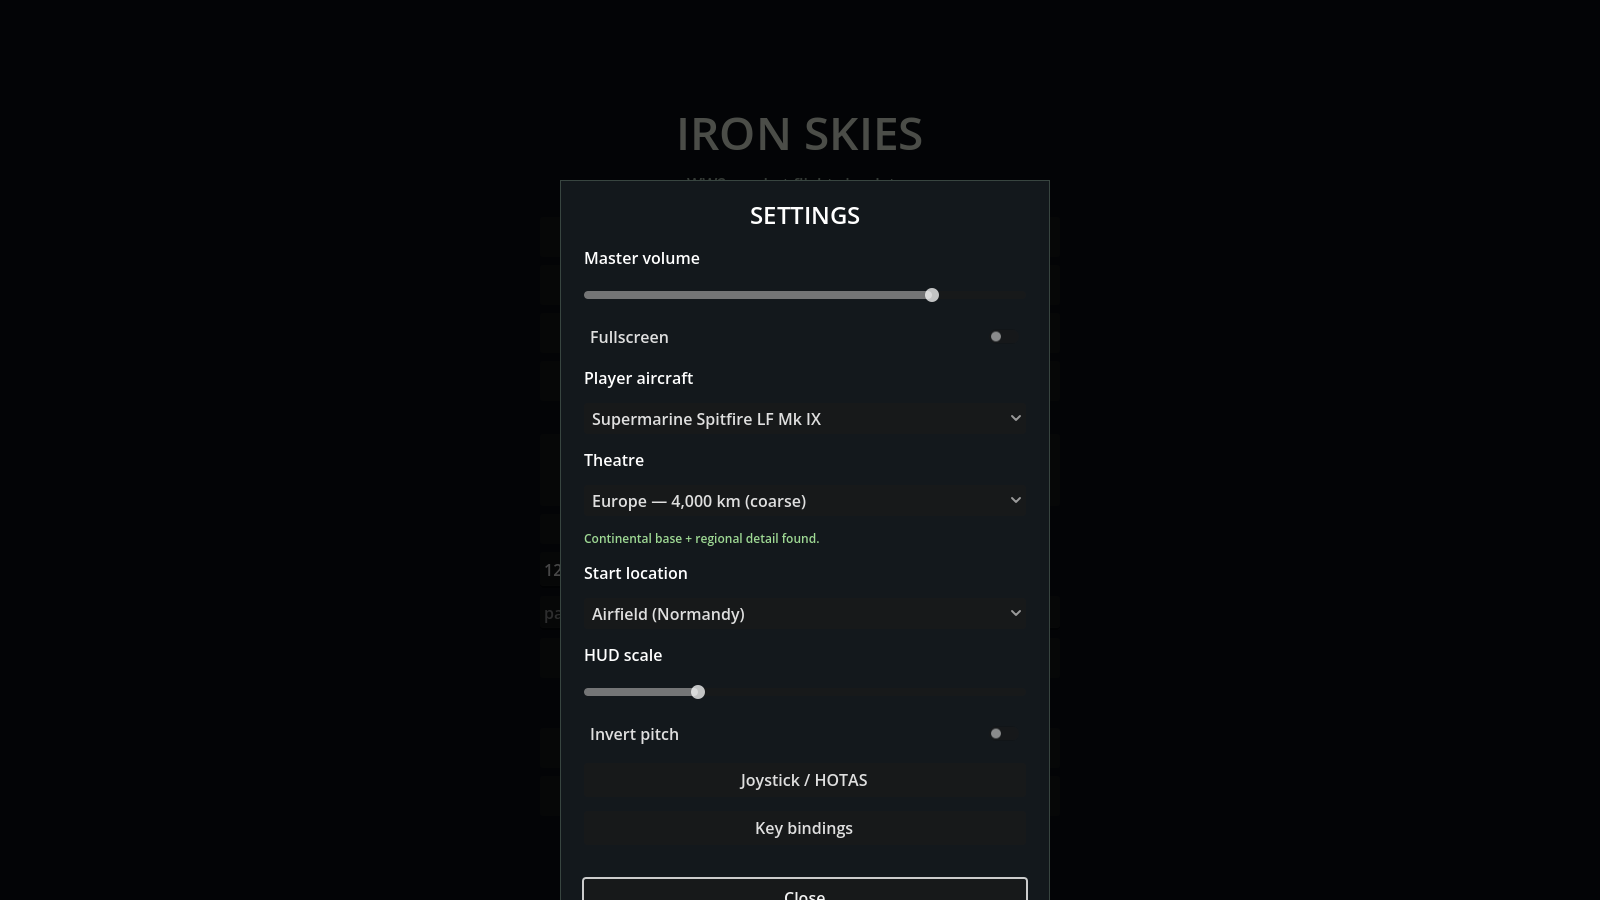
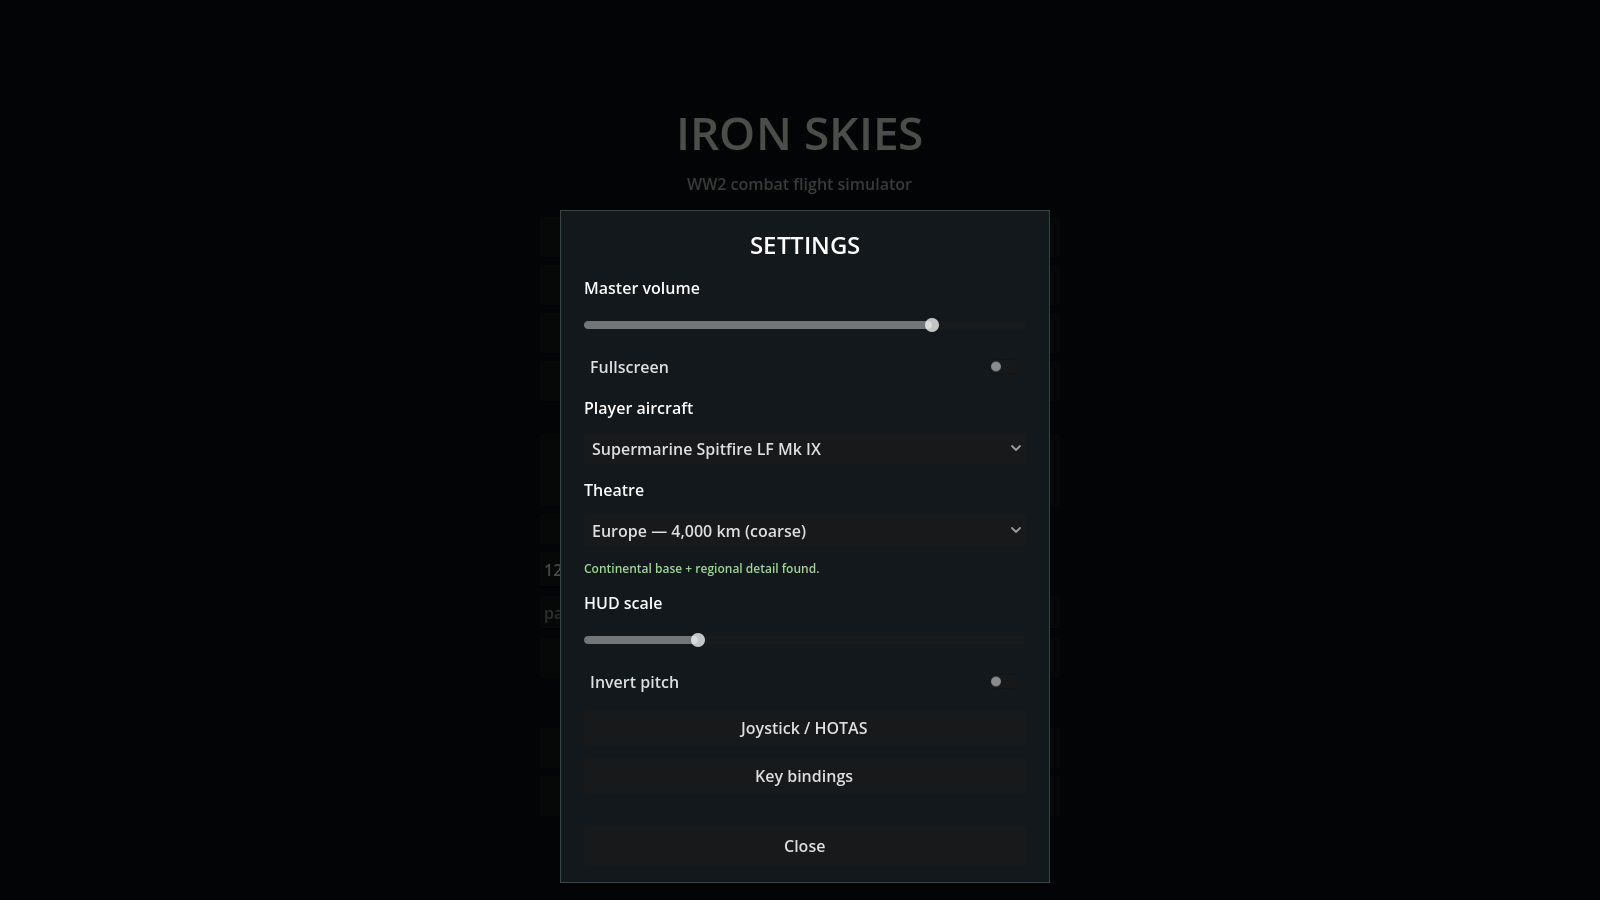
ui: choose the single-player start location in a launch dialog
- Single Player now opens a dialog: Airfield or airborne Alps start
- the Alps choice switches the theatre to Europe and starts at the Alpine layer
- removed the start-location row from Settings; the theatre selector stays there
- LaunchConfig carries the chosen start location into the Main scene
- new --open-singleplayer launcher screenshot flag and updated docs

diff --git a/game/scripts/Launcher.cs b/game/scripts/Launcher.cs
@@ -20,11 +20,12 @@ public sealed partial class Launcher : Control
     private Label _scanStatus = null!;
     private Control _settingsOverlay = null!;
     private Control _missionsOverlay = null!;
+    private Control _singleOverlay = null!;
+    private Label _singleStatus = null!;
     private HSlider _volumeSlider = null!;
     private CheckButton _fullscreenCheck = null!;
     private OptionButton _aircraftOption = null!;
     private OptionButton _theatreOption = null!;
-    private OptionButton _startOption = null!;
     private Label _theatreStatus = null!;
     private HSlider _hudScaleSlider = null!;
     private CheckButton _invertPitchCheck = null!;
@@ -115,6 +116,10 @@ public sealed partial class Launcher : Control
         {
             ShowHotas();
         }
+        else if (HasFlag("--open-singleplayer"))
+        {
+            ShowSinglePlayer();
+        }
 
         string? launcherShot = ReadOption("--launcher-shot");
         if (launcherShot is not null)
@@ -182,11 +187,7 @@ public sealed partial class Launcher : Control
             return button;
         }
 
-        MakeButton("Single Player").Pressed += () =>
-        {
-            LaunchConfig.Reset();
-            GetTree().ChangeSceneToFile("res://scenes/Main.tscn");
-        };
+        MakeButton("Single Player").Pressed += ShowSinglePlayer;
 
         MakeButton("Missions").Pressed += ShowMissions;
 
@@ -290,9 +291,111 @@ public sealed partial class Launcher : Control
 
         BuildSettingsOverlay();
         BuildMissionsOverlay();
+        BuildSinglePlayerOverlay();
         BuildKeysOverlay();
         BuildHotasOverlay();
     }
+
+    private void BuildSinglePlayerOverlay()
+    {
+        _singleOverlay = BuildOverlay();
+        var panel = (PanelContainer)_singleOverlay.GetChild(1);
+        panel.OffsetLeft = -290.0f;
+        panel.OffsetRight = 290.0f;
+        panel.OffsetTop = -175.0f;
+        panel.OffsetBottom = 175.0f;
+        var content = (VBoxContainer)panel.GetChild(0);
+
+        var title = new Label
+        {
+            Text = "SINGLE PLAYER",
+            HorizontalAlignment = HorizontalAlignment.Center,
+        };
+        title.AddThemeFontSizeOverride("font_size", 24);
+        content.AddChild(title);
+
+        _singleStatus = new Label
+        {
+            Text = "",
+            HorizontalAlignment = HorizontalAlignment.Center,
+            AutowrapMode = TextServer.AutowrapMode.WordSmart,
+        };
+        _singleStatus.AddThemeFontSizeOverride("font_size", 12);
+        _singleStatus.AddThemeColorOverride("font_color", new Color(0.62f, 0.72f, 0.64f));
+        content.AddChild(_singleStatus);
+
+        var airfield = new Button
+        {
+            Text = "Airfield — take off from the runway",
+            CustomMinimumSize = new Vector2(0.0f, 44.0f),
+        };
+        airfield.Pressed += () => StartSinglePlayer("airfield");
+        content.AddChild(airfield);
+
+        bool alpsInstalled = TheatreCatalog.IsInstalled(TheatreCatalog.AlpsId);
+        var alps = new Button
+        {
+            Text = alpsInstalled
+                ? "Alps — start airborne over the range"
+                : "Alps — not installed",
+            Disabled = !alpsInstalled,
+            CustomMinimumSize = new Vector2(0.0f, 44.0f),
+        };
+        alps.Pressed += () => StartSinglePlayer("alps");
+        content.AddChild(alps);
+
+        var note = new Label
+        {
+            Text = "The Alps start switches to the Europe theatre. "
+                + "The theatre itself is chosen in Settings.",
+            AutowrapMode = TextServer.AutowrapMode.WordSmart,
+        };
+        note.AddThemeFontSizeOverride("font_size", 12);
+        note.AddThemeColorOverride("font_color", new Color(0.72f, 0.76f, 0.70f));
+        content.AddChild(note);
+
+        var back = new Button
+        {
+            Text = "Back",
+            CustomMinimumSize = new Vector2(0.0f, 34.0f),
+        };
+        back.Pressed += HideSinglePlayer;
+        content.AddChild(back);
+    }
+
+    private void StartSinglePlayer(string location)
+    {
+        if (location == "alps")
+        {
+            if (!TheatreCatalog.IsInstalled(TheatreCatalog.EuropeId)
+                || !TheatreCatalog.IsInstalled(TheatreCatalog.AlpsId))
+            {
+                _singleStatus.Text = "The Alps layer is not installed.";
+                return;
+            }
+
+            GameSettings.Theatre = TheatreCatalog.EuropeId;
+        }
+
+        GameSettings.StartLocation = location;
+        GameSettings.Save();
+        LaunchConfig.Reset();
+        LaunchConfig.StartLocation = location;
+        HideSinglePlayer();
+        GetTree().ChangeSceneToFile("res://scenes/Main.tscn");
+    }
+
+    private void ShowSinglePlayer()
+    {
+        HideSettings();
+        HideMissions();
+        HideKeys();
+        HideHotas();
+        _singleStatus.Text = $"Theatre: {TheatreCatalog.Name(GameSettings.Theatre)}";
+        _singleOverlay.Visible = true;
+    }
+
+    private void HideSinglePlayer() => _singleOverlay.Visible = false;
 
     private void BuildHotasOverlay()
     {
@@ -603,6 +706,7 @@ public sealed partial class Launcher : Control
         HideSettings();
         HideMissions();
         HideKeys();
+        HideSinglePlayer();
         CancelHotasCapture();
         RefreshHotas();
         _hotasOverlay.Visible = true;
@@ -704,6 +808,7 @@ public sealed partial class Launcher : Control
         HideSettings();
         HideMissions();
         HideHotas();
+        HideSinglePlayer();
         foreach ((FlightAction action, Button button) in _keyButtons)
         {
             button.Text = FlightInput.KeyName(action);
@@ -890,6 +995,7 @@ public sealed partial class Launcher : Control
         HideSettings();
         HideKeys();
         HideHotas();
+        HideSinglePlayer();
         _missionsOverlay.Visible = true;
     }
 
@@ -958,9 +1064,9 @@ public sealed partial class Launcher : Control
             AnchorRight = 0.5f,
             AnchorBottom = 0.5f,
             OffsetLeft = -240.0f,
-            OffsetTop = -270.0f,
+            OffsetTop = -240.0f,
             OffsetRight = 250.0f,
-            OffsetBottom = 270.0f,
+            OffsetBottom = 240.0f,
         };
         var style = new StyleBoxFlat
         {
@@ -1066,24 +1172,6 @@ public sealed partial class Launcher : Control
         content.AddChild(_theatreStatus);
         RefreshTheatreStatus();
 
-        content.AddChild(new Label { Text = "Start location" });
-        _startOption = new OptionButton();
-        _startOption.AddItem("Airfield (Normandy)");
-        _startOption.SetItemMetadata(0, "airfield");
-        _startOption.AddItem(
-            TheatreCatalog.IsInstalled(TheatreCatalog.AlpsId)
-                ? "Alps — airborne"
-                : "Alps — not installed");
-        _startOption.SetItemMetadata(1, "alps");
-        _startOption.Selected = GameSettings.StartLocation == "alps" ? 1 : 0;
-        _startOption.ItemSelected += index =>
-        {
-            GameSettings.StartLocation =
-                _startOption.GetItemMetadata((int)index).AsString();
-            GameSettings.Save();
-        };
-        content.AddChild(_startOption);
-
         content.AddChild(new Label { Text = "HUD scale" });
         _hudScaleSlider = new HSlider
         {
@@ -1140,6 +1228,7 @@ public sealed partial class Launcher : Control
         HideMissions();
         HideKeys();
         HideHotas();
+        HideSinglePlayer();
         _settingsOverlay.Visible = true;
         _volumeSlider.Value = GameSettings.MasterVolume;
         _fullscreenCheck.ButtonPressed = GameSettings.Fullscreen;
@@ -1155,7 +1244,6 @@ public sealed partial class Launcher : Control
             }
         }
 
-        _startOption.Selected = GameSettings.StartLocation == "alps" ? 1 : 0;
         RefreshTheatreStatus();
     }
 

diff --git a/game/scripts/LaunchConfig.cs b/game/scripts/LaunchConfig.cs
@@ -12,6 +12,11 @@ public static class LaunchConfig
     public static string Theatre { get; set; } = "";
     public static string CurrentTheatre =>
         string.IsNullOrEmpty(Theatre) ? GameSettings.Theatre : Theatre;
+    public static string StartLocation { get; set; } = "";
+    public static string CurrentStartLocation =>
+        string.IsNullOrEmpty(StartLocation)
+            ? GameSettings.StartLocation
+            : StartLocation;
 
     public static void Reset()
     {
@@ -20,5 +25,6 @@ public static class LaunchConfig
         Password = "";
         Mission = "";
         Theatre = GameSettings.Theatre;
+        StartLocation = GameSettings.StartLocation;
     }
 }

diff --git a/game/scripts/World/TheatreCatalog.cs b/game/scripts/World/TheatreCatalog.cs
@@ -41,6 +41,19 @@ public static class TheatreCatalog
 
     public static string Directory(string id) => $"res://assets/terrain/{id}";
 
+    public static string Name(string id)
+    {
+        foreach (Entry entry in All)
+        {
+            if (entry.Id == id)
+            {
+                return entry.Name;
+            }
+        }
+
+        return id;
+    }
+
     public static bool TryGetLayer(
         ITerrainSource source, string id, out TerrainLayer layer)
     {

diff --git a/game/scripts/Main.cs b/game/scripts/Main.cs
@@ -1236,7 +1236,7 @@ public partial class Main : Node3D
         }
 
         TerrainLayer alpsLayer = default;
-        bool alpsStart = GameSettings.StartLocation == "alps"
+        bool alpsStart = LaunchConfig.CurrentStartLocation == "alps"
             && !_spawnSet
             && _missionKind == MissionKind.None
             && !_strikeStart && !_huntStart && !_bomberStart && !_duel

diff --git a/README.md b/README.md
@@ -75,8 +75,8 @@ python3 tools/mapgen/mapgen.py --theatre alps-1944 \
     --resolution 50 --ortho-size 4096 --no-osm
 ```
 
-It is loaded over Europe when installed; **Settings → Start location → Alps** spawns
-airborne over Innsbruck/Stelvio. The generated 123 MB heightmap stays git-ignored.
+It is loaded over Europe when installed; **Single Player → Alps** spawns airborne over
+Innsbruck/Stelvio. The generated 123 MB heightmap stays git-ignored.
 
 Then choose **Settings → Theatre**. The runtime composes up to three levels that share
 the Normandy origin:
@@ -91,6 +91,11 @@ For any point it uses the finest layer containing that point, and the shader ble
 ortho insets with feathered edges. Chunk meshes within 10 km stream as before; the base
 mesh covers the continent. If a selected layer is not installed, the runtime falls back
 to the layers it has.
+
+![Single Player start location dialog](docs/media/m0-singleplayer.png)
+
+*Single Player now asks for a start location — the runway, or an airborne Alpine start.
+The start location no longer lives in Settings; the theatre is still chosen there.*
 
 ![Alps 400 km high-resolution layer](docs/media/m0-alps.jpg)
 

diff --git a/docs/plan-mountains-rivers.md b/docs/plan-mountains-rivers.md
@@ -104,6 +104,7 @@ the small ones later.
    `river.gdshader` in both scenes.
 5. **Local waterways** — next: OSM `waterway=river/stream/canal` for the detailed
    regions, plus river-channel carving for the terrain.
+6. **Single Player start dialog** — done: Airfield / Alps selection moved out of Settings.
 6. **Polish** — screenshots, README/architecture/roadmap updates, tests, CI, export.
 
 ## Acceptance criteria
